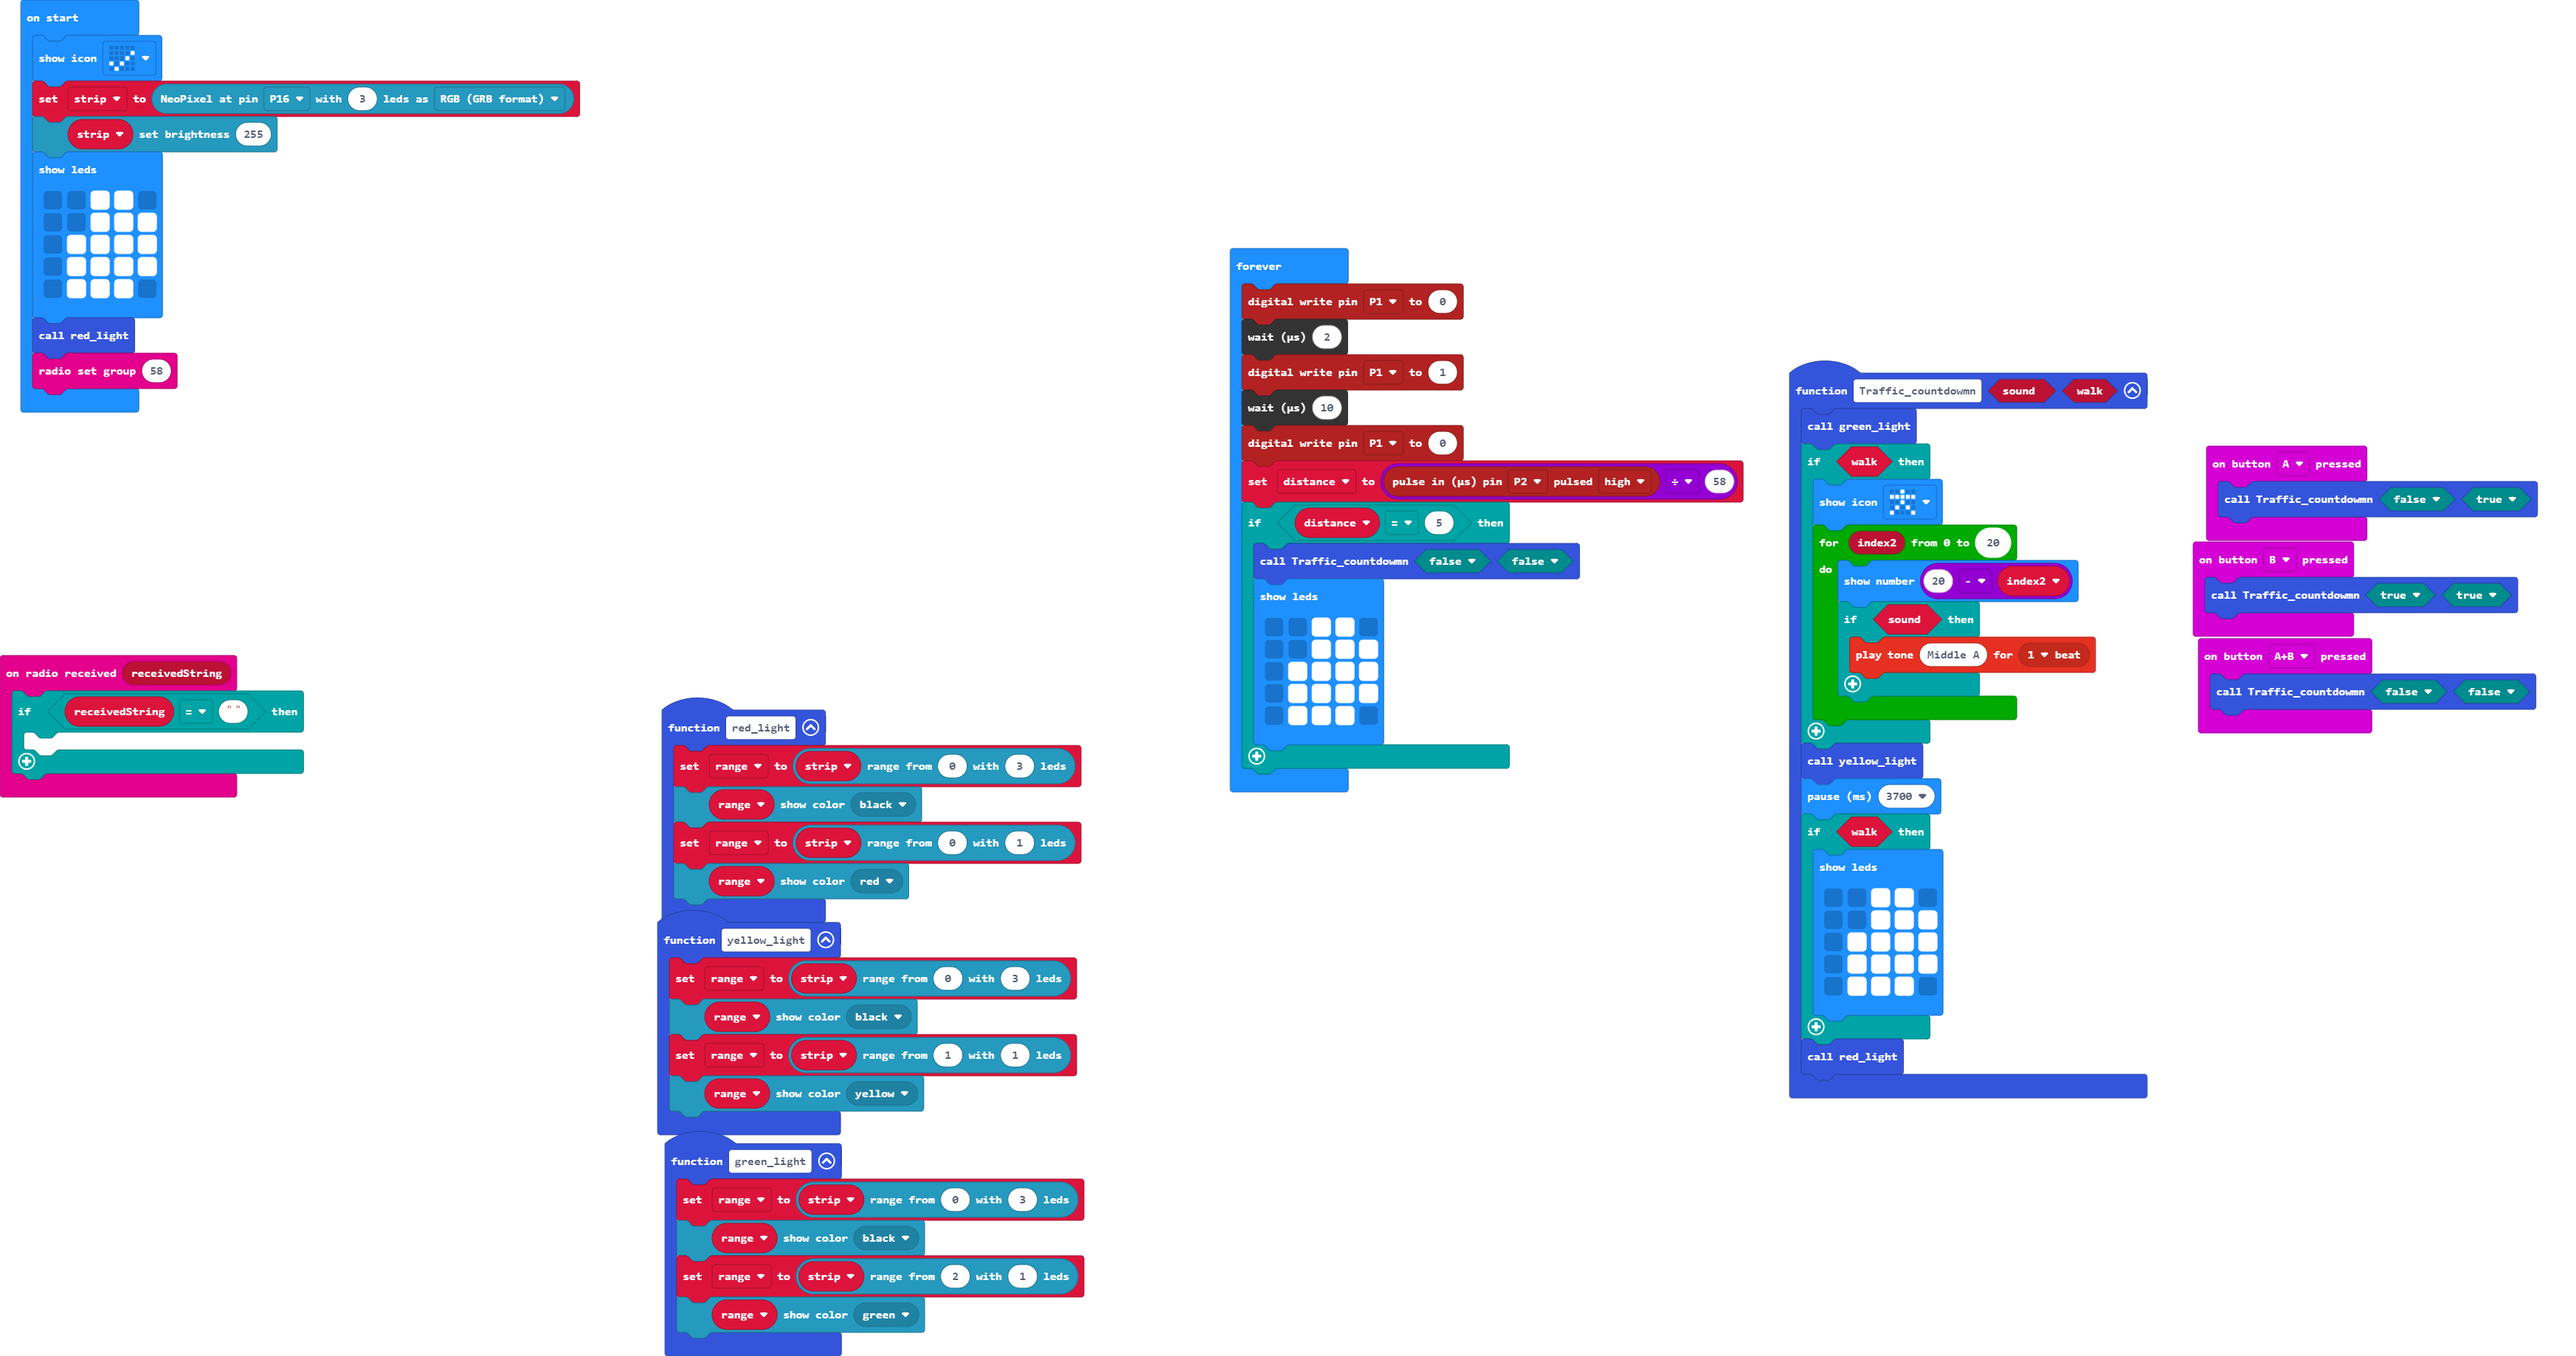
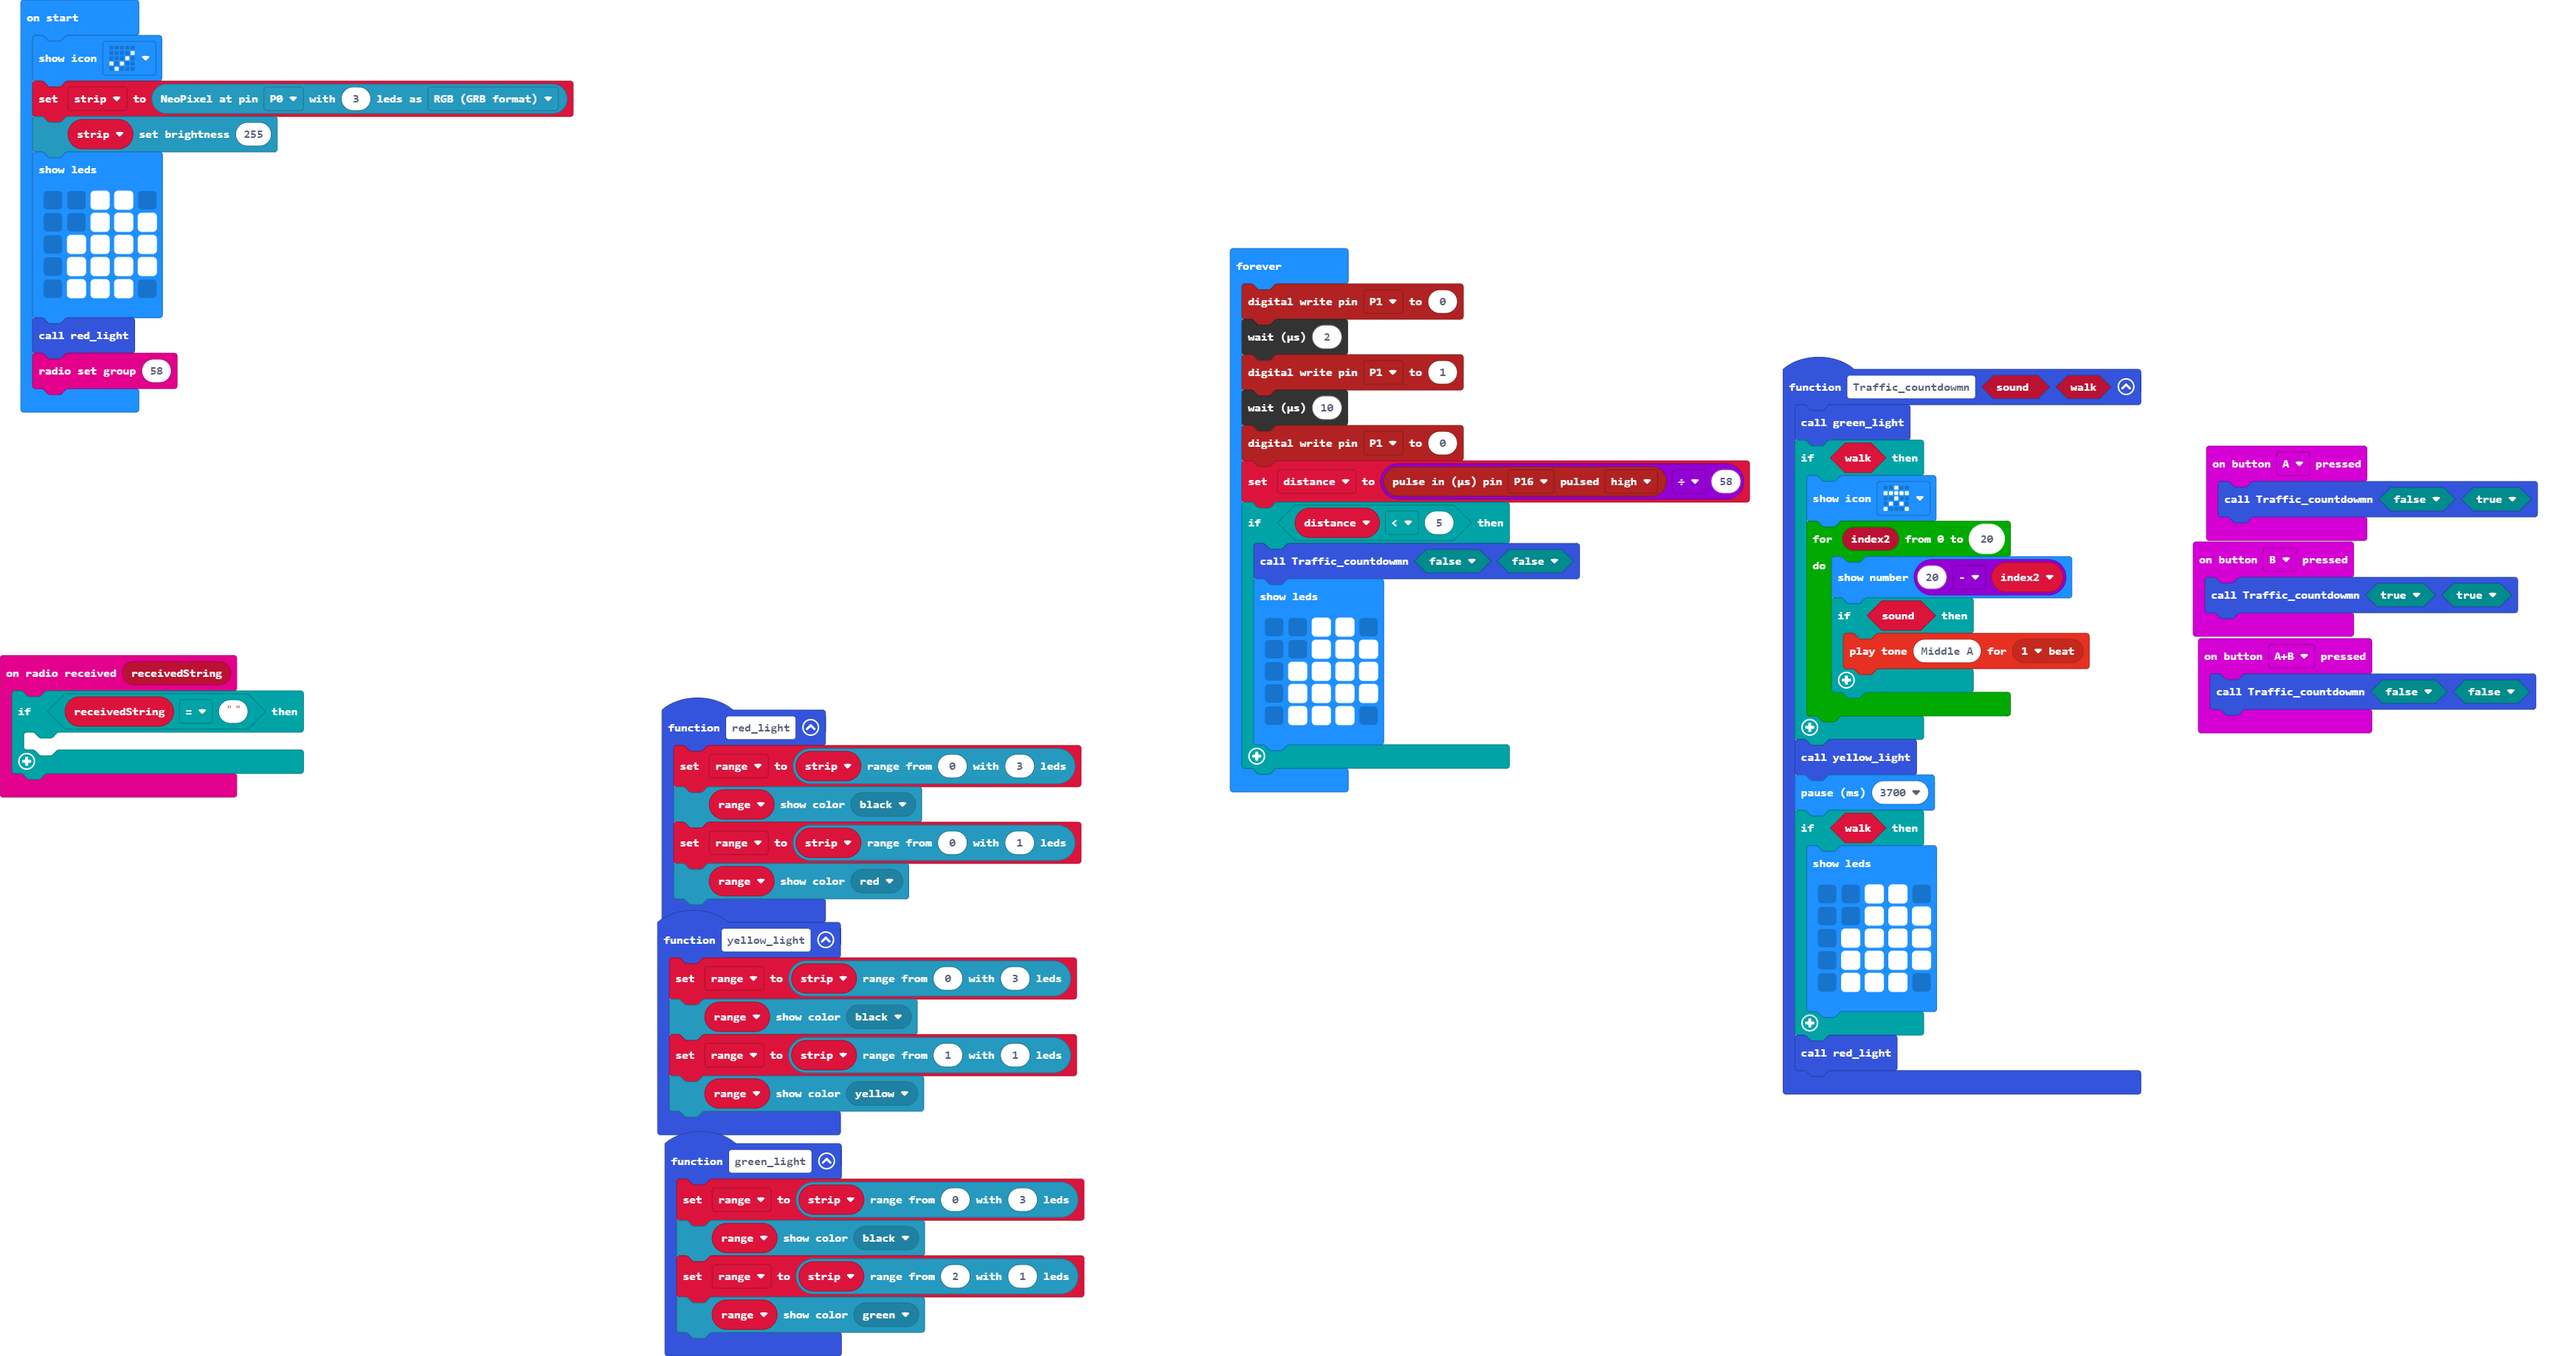
Update main.blocks, main.ts

Changed region(s): [[0.6245, 0.248, 0.843, 0.8369], [0.1249, 0.062, 0.2498, 0.093]]

diff --git a/main.ts b/main.ts
@@ -58,7 +58,7 @@ let distance = 0
 let range: neopixel.Strip = null
 let strip: neopixel.Strip = null
 basic.showIcon(IconNames.Yes)
-strip = neopixel.create(DigitalPin.P16, 3, NeoPixelMode.RGB)
+strip = neopixel.create(DigitalPin.P0, 3, NeoPixelMode.RGB)
 strip.setBrightness(255)
 basic.showLeds(`
     . . # # .
@@ -75,8 +75,8 @@ basic.forever(function () {
     pins.digitalWritePin(DigitalPin.P1, 1)
     control.waitMicros(10)
     pins.digitalWritePin(DigitalPin.P1, 0)
-    distance = pins.pulseIn(DigitalPin.P2, PulseValue.High) / 58
-    if (distance == 5) {
+    distance = pins.pulseIn(DigitalPin.P16, PulseValue.High) / 58
+    if (distance < 5) {
         Traffic_countdowmn(false, false)
         basic.showLeds(`
             . . # # .
